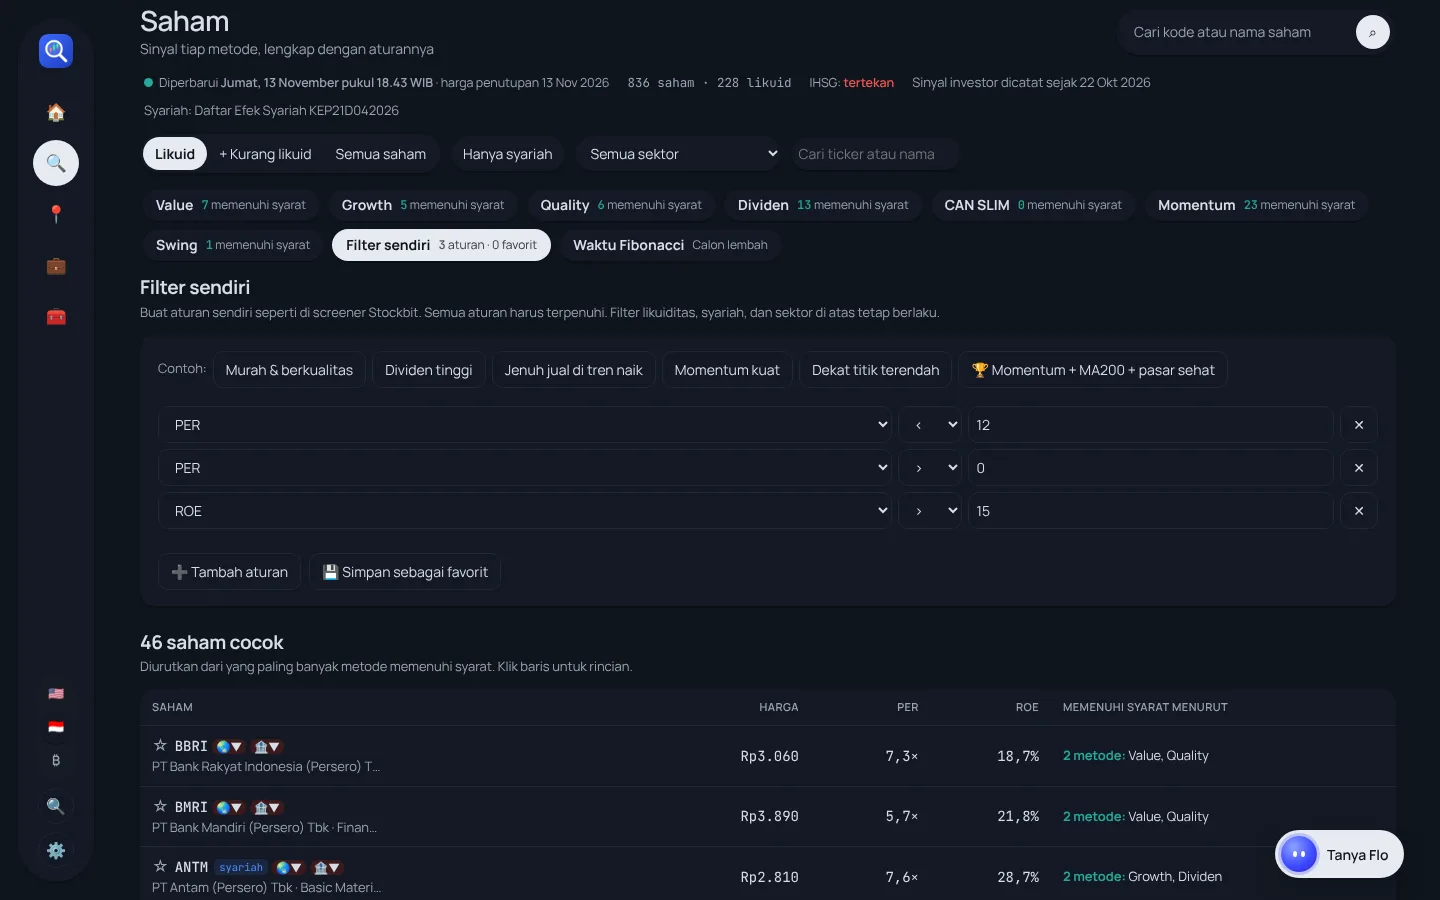
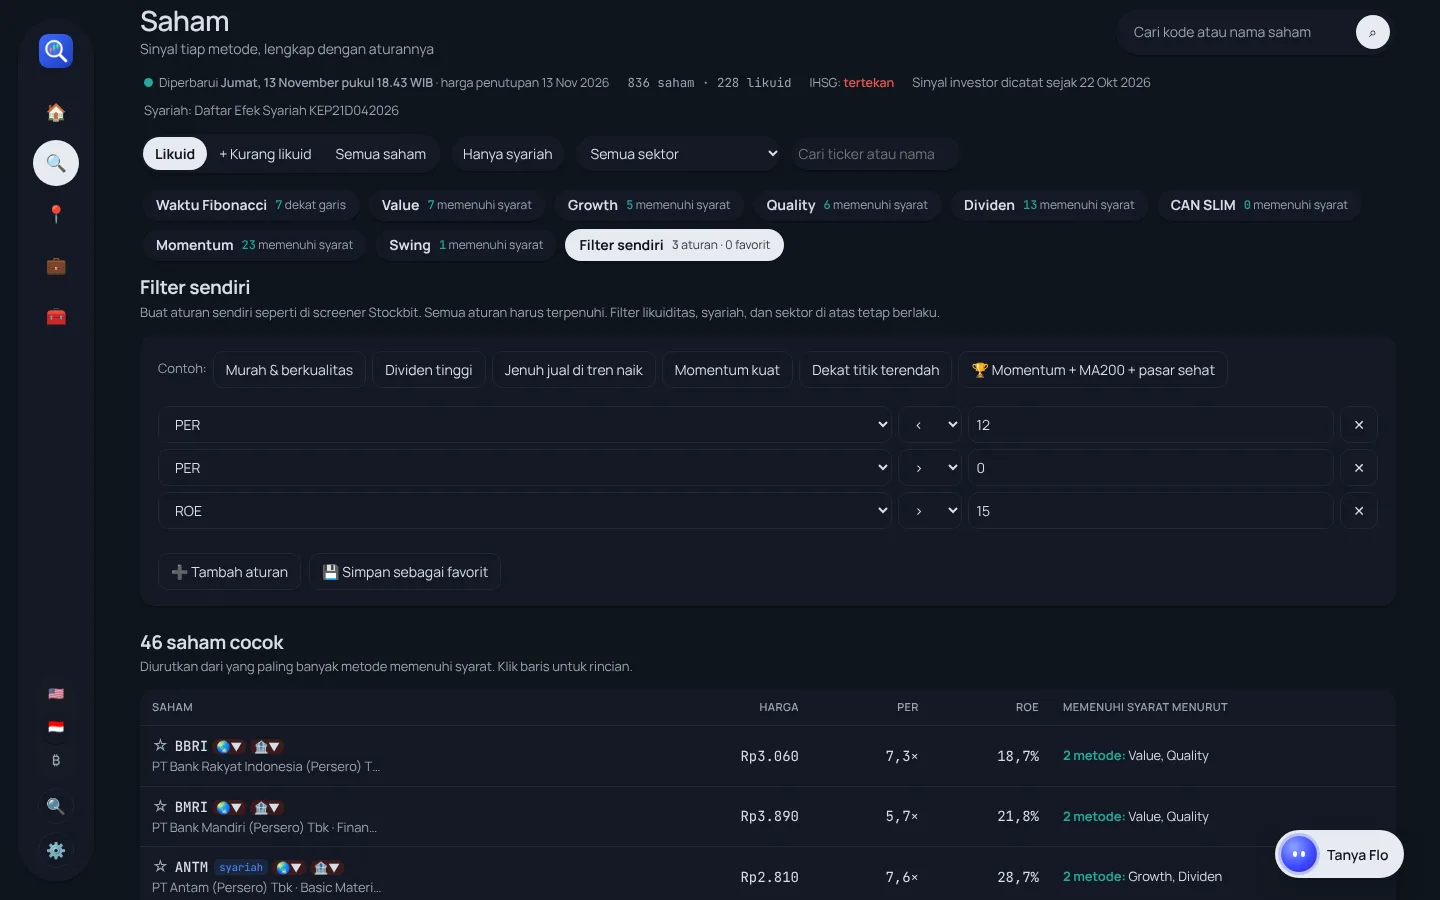
Waktu Fibonacci paling atas di menu Saham
Kotak Waktu Fibonacci dipindah ke urutan pertama, sebelum 7 metode,
dan data siklus dimuat supaya jumlah "dekat garis" langsung tampil.

Claude-Session: https://claude.ai/code/session_0176tunsp4Dom3F1p2VBRfoD

Changed region(s): [[0.0938, 0.2178, 0.7812, 0.3111], [0.8125, 0.2178, 0.9375, 0.2489]]

diff --git a/index.html b/index.html
@@ -833,7 +833,7 @@ const M = [
   cols:[["rsi2","RSI(2)"],["sma200","vs SMA200",1],["perf1m","1 bln",1]]},
 ];
 const MID = Object.fromEntries(M.map(m=>[m.id,m]));
-const TABS = [{id:"summary",name:"Ringkasan",k:"Gabungan"},{id:"watch",name:"Watchlist pribadi",k:"Area support"},{id:"porto",name:"Portofolio",k:"Posisi Anda"}].concat(M.map((m,i)=>({id:m.id,name:m.name,k:(m.kind==="inv"?"Investor":"Trader")+" · "+(i+1)}))).concat([{id:"cycles",name:"Siklus",k:"Waktu · Fibonacci"},{id:"calc",name:"Kalkulator",k:"Return & risiko"},{id:"divcal",name:"Kalender dividen",k:"Ex-dividen"},{id:"hot",name:"Ramai hari ini",k:"Momentum"},{id:"uji",name:"📏 Hasil uji",k:"Apa yang terbukti"},{id:"screen",name:"Filter sendiri",k:"Aturan Anda"},{id:"fibtime",name:"Waktu Fibonacci",k:"Calon lembah"}])
+const TABS = [{id:"summary",name:"Ringkasan",k:"Gabungan"},{id:"watch",name:"Watchlist pribadi",k:"Area support"},{id:"porto",name:"Portofolio",k:"Posisi Anda"},{id:"fibtime",name:"Waktu Fibonacci",k:"Calon lembah"}].concat(M.map((m,i)=>({id:m.id,name:m.name,k:(m.kind==="inv"?"Investor":"Trader")+" · "+(i+1)}))).concat([{id:"cycles",name:"Siklus",k:"Waktu · Fibonacci"},{id:"calc",name:"Kalkulator",k:"Return & risiko"},{id:"divcal",name:"Kalender dividen",k:"Ex-dividen"},{id:"hot",name:"Ramai hari ini",k:"Momentum"},{id:"uji",name:"📏 Hasil uji",k:"Apa yang terbukti"},{id:"screen",name:"Filter sendiri",k:"Aturan Anda"}])
 const ST = {buy:"Layak beli",hold:"Tahan",sell:"Jual",late:"Terlambat",wait:"Tunggu",na:"Tidak dinilai"};
 const PRI = {buy:0,sell:1,hold:2,late:3,wait:4,na:5};
 const REASON = {stop:"stop loss −7%",be:"kembali ke harga beli",target:"target +20%","8w":"8 minggu selesai",sma5:"di atas SMA5",rank:"keluar 20% teratas"};
@@ -944,7 +944,7 @@ function tabCount(t,list){
     else if(t.id==="uji") c="Terbukti / tidak";
     else if(t.id==="hot") { const n=hotLists(list).spike.length; c=n?`<b>${n}</b> volume melonjak`:"Volume & momentum"; }
     else if(t.id==="calc") c="Lot, untung, rugi";
-    else if(t.id==="fibtime") { if(CYC&&CYC.stocks){ const n=ftList(ftState()).res.length; c=`<b>${n}</b> dekat garis`; } else c="Calon lembah"; }
+    else if(t.id==="fibtime") { if(CYC&&CYC.stocks){ const n=ftList(ftState()).res.length; c=`<b>${n}</b> dekat garis`; } else { c="Calon lembah"; if(!CYC&&!CYC_ERR&&!window.__ftL){ window.__ftL=1; loadCycles().then(()=>{ if(CYC) renderTabs(); }); } } }
     else if(t.id==="screen") c=`<b>${fstate().cur.length}</b> aturan · ${fstate().saved.length} favorit`;
     else if(t.id==="divcal") { const td=(DATA&&DATA.priceDate)||""; const n=list.filter(o=>o.dv&&o.dv.ex>=td&&o.dv.ex<=new Date(new Date(td).getTime()+14*864e5).toISOString().slice(0,10)).length; c=`<b>${n}</b> dalam 2 minggu`; }
     else if(t.id==="porto") { const P=porto(); if(!P.open.length) c="Catat & pantau"; else { const nd=P.open.filter(ps=>posEval(ps).acts.some(a=>a.lv<=1)).length; c=`<b>${P.open.length}</b> posisi${nd?` · ⚠ ${nd} perlu tindakan`:""}`; } }
@@ -2562,7 +2562,7 @@ function addToPorto(st){ store.set(WP+"porto.pre",JSON.stringify({code:st.code,p
 
 
 // ---------- navigasi v2 ----------
-const GROUPS=[{id:"home",ic:"🏠",name:"Beranda",tabs:["summary"]},{id:"saham",ic:"🔍",name:"Saham",tabs:M.map(m=>m.id).concat(["screen","fibtime"])},
+const GROUPS=[{id:"home",ic:"🏠",name:"Beranda",tabs:["summary"]},{id:"saham",ic:"🔍",name:"Saham",tabs:["fibtime"].concat(M.map(m=>m.id),["screen"])},
   {id:"watch",ic:"📍",name:"Watchlist",tabs:["watch"]},{id:"porto",ic:"💼",name:"Portofolio",tabs:["porto"]},{id:"alat",ic:"🧰",name:"Alat",tabs:["calc","cycles","hot","divcal","uji"]}];
 const groupOf=t=>GROUPS.find(g=>g.tabs.includes(t))||GROUPS[0];
 function renderSide(g,nd){
